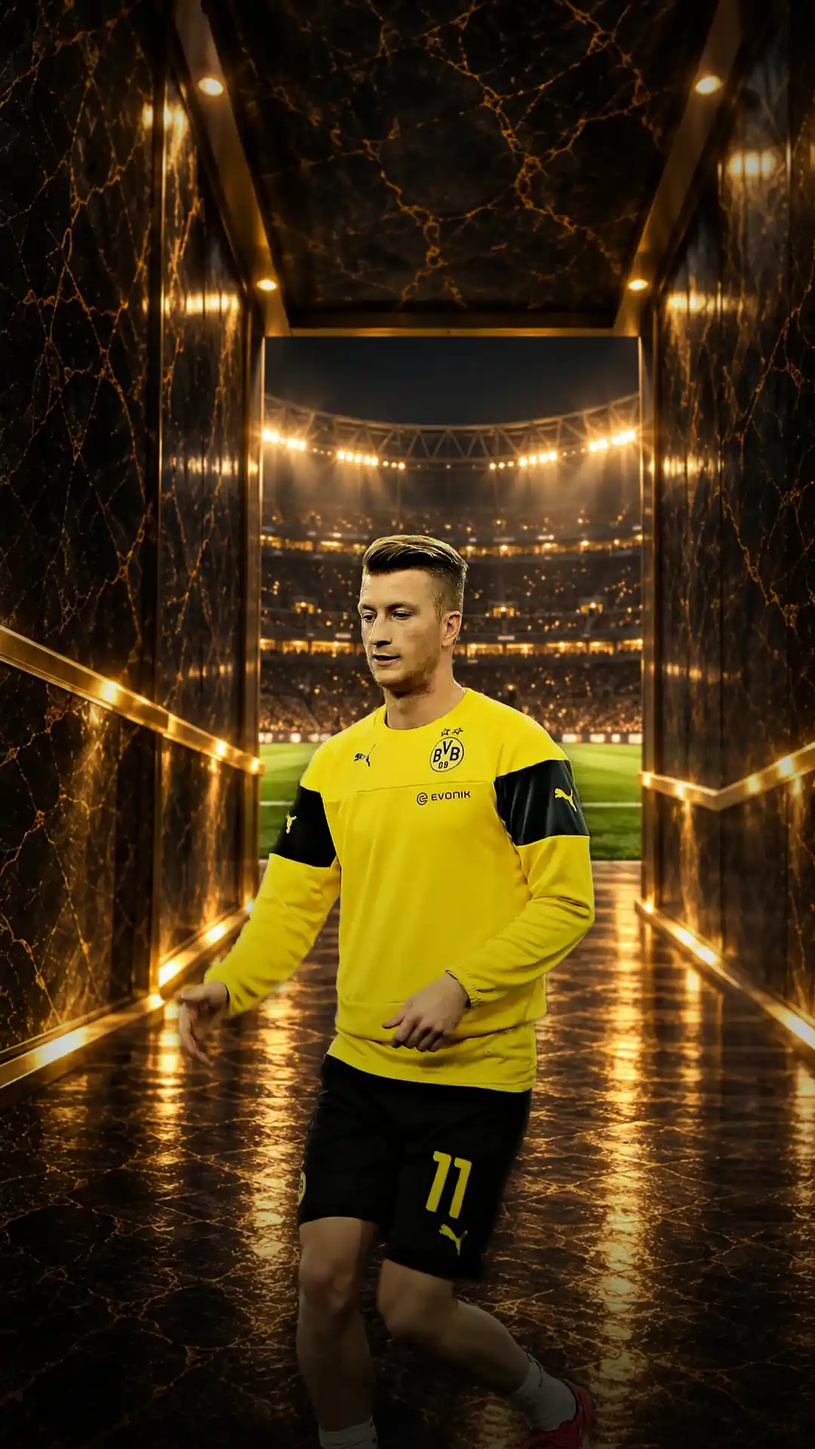
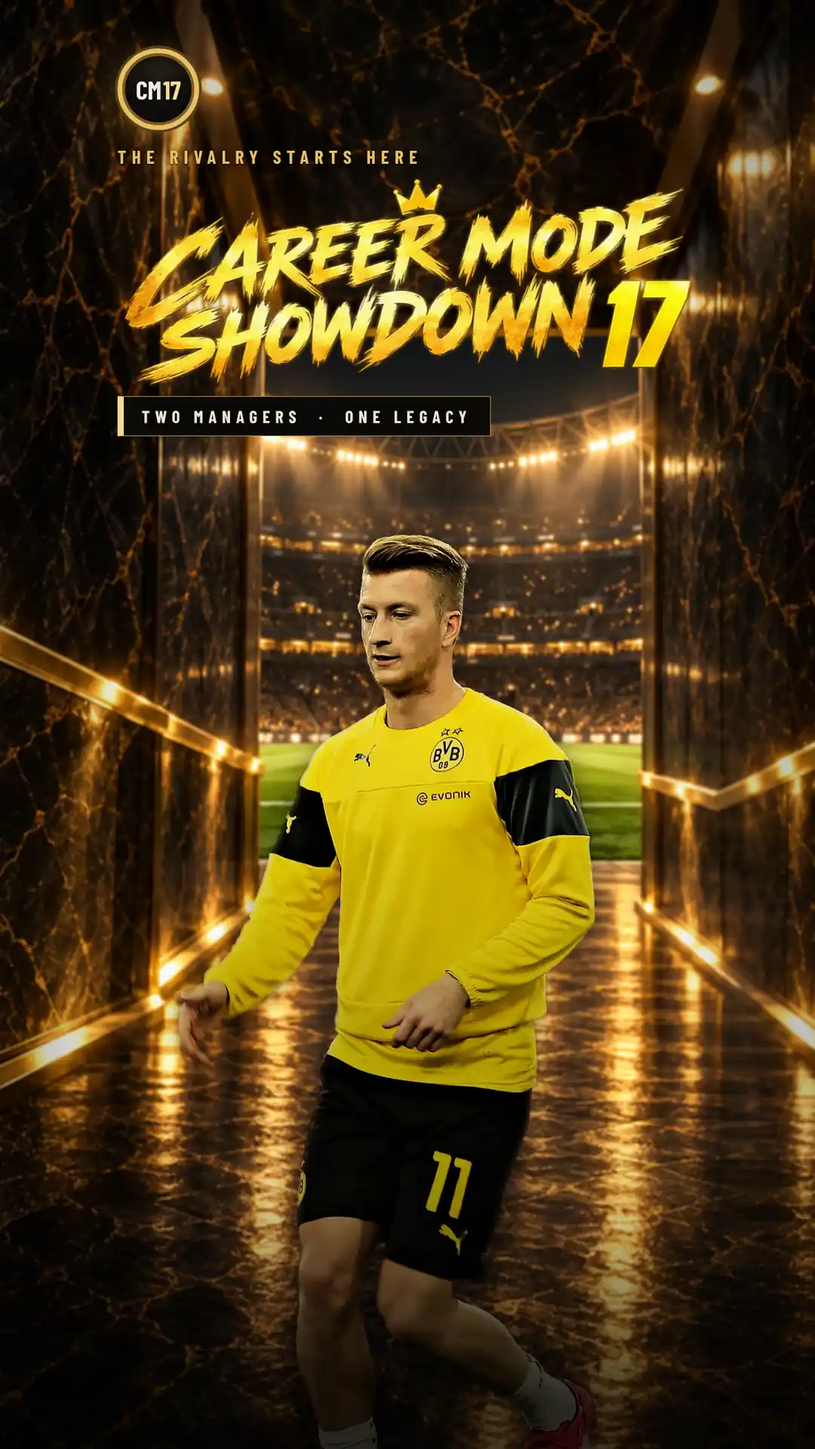
r78 HO-030 v3: title baked into both Loading pictures (one paint), pictures under 95,000 B, CSS 1,430 B gzip
Claude-Session: https://claude.ai/code/session_014ZJxmmR5BHBU6KFwo3Mvsk

diff --git a/project-documents/factory/r78/HO-030/loading-r78.min.css b/project-documents/factory/r78/HO-030/loading-r78.min.css
@@ -1,1 +1,1 @@
-@font-face{font-family:Startup;src:url(../visual-assets/v10_1/shared/fonts/barlow-condensed-latin-700-normal.woff2) format("woff2");font-weight:700;font-display:block}#loadingScreen{--k:max(100cqw/1920,100cqh/1080);--s:100cqh/1080;--fx:.25;--col:calc(var(--k)*1170 - (var(--k)*1920 - 100cqw)*var(--fx));--g:#e8c065;--h:#f6dc94;--i:#f1e9d6;position:fixed;inset:0;z-index:100;overflow:hidden;container-type:size;color:var(--i);font:700 14px/1.2 Startup,"Arial Narrow",Arial,sans-serif;white-space:nowrap;background:#0a0806;text-shadow:0 1px 2px #000,0 0 14px #000c;transition:opacity .24s}#loadingScreen.is-exiting{opacity:0;pointer-events:none}.startupScene,.startupAthleteFrame,#startupAthlete{position:absolute;inset:0}.startupAthleteFrame{background:linear-gradient(104deg,#18120b 48%,#0b0907 58%)}#startupAthlete{width:100%;height:100%;max-width:none;object-fit:cover;object-position:calc(var(--fx)*100%) 0}.startupIdentity,.startupStatus,.startupSaveNote,.startupPhotoCredit{position:absolute;z-index:5;left:var(--col)}.startupIdentity{top:calc(var(--s)*196);width:min(var(--s)*660,100cqw - var(--col) - 3cqw);display:grid;grid-template-columns:auto 1fr;grid-template-areas:"r r" "k k" "t t" "e e";justify-items:start;align-items:center;column-gap:12px}.startupRoundel{grid-area:r;box-sizing:border-box;width:max(40px,var(--s)*96);aspect-ratio:1;display:flex;align-items:center;justify-content:center;gap:.06em;border-radius:50%;border:max(2px,var(--s)*4) solid var(--g);background:#15120d;color:#f3efe6;font-size:max(14px,var(--s)*30);line-height:1}.startupRoundel strong{color:var(--h);font-weight:700}.startupKicker{grid-area:k;margin:calc(var(--s)*26) 0 0;color:var(--g);font-size:max(10px,var(--s)*21);letter-spacing:.34em}.startupIdentity h1{grid-area:t;position:relative;width:100%;margin:calc(var(--s)*10) 0 0;aspect-ratio:1040/378;font-size:0;background:url(../visual-assets/v10_1/home/assets/LOGO_CM17_WORDMARK_V1.webp) left/contain no-repeat}.startupEdition{grid-area:e;margin:calc(var(--s)*16) 0 0;padding:max(5px,var(--s)*11) max(10px,var(--s)*24);border:1px solid #b48a3a;border-left:max(3px,var(--s)*5) solid var(--h);background:#0b0a08;font-size:max(10px,var(--s)*21);letter-spacing:.3em}.startupStatus{bottom:calc(var(--s)*150);display:grid;grid-template-columns:auto 1fr;gap:max(6px,var(--s)*10) max(10px,var(--s)*18);align-items:center}.startupPulse{grid-row:span 2;height:max(18px,var(--s)*30);display:flex;align-items:flex-end;gap:max(2px,var(--s)*4);transform:skewX(-18deg)}.startupPulse i{width:max(3px,var(--s)*6);height:35%;background:var(--g)}.startupPulse i+i{height:60%}.startupPulse i+i+i{height:100%}.startupPulse i+i+i+i{height:72%}#loadingText,.startupSaveNote,.startupPhotoCredit{margin:0}#loadingText{font-size:max(11px,var(--s)*22);letter-spacing:.16em}.startupLoader{grid-column:2;position:relative;width:100%;max-width:26em;height:2px;overflow:hidden;background:#e8c06538}.startupLoader i{position:absolute;inset:0;width:38%;background:linear-gradient(90deg,#e8c06500,var(--h) 55%,var(--g));transform:translateX(-100%);animation:startupSweep 1.8s cubic-bezier(.45,0,.55,1) infinite}@keyframes startupSweep{to{transform:translateX(265%)}}.startupSaveNote{bottom:calc(var(--s)*104);color:var(--g);font-size:max(9px,var(--s)*16);line-height:1.3;letter-spacing:.3em}.startupPhotoCredit{left:auto;right:max(10px,1.4cqw);bottom:max(6px,1.3cqh);color:#e9e1cf;font:400 max(9px,var(--s)*14)/1.35 Arial,sans-serif;letter-spacing:.02em;text-shadow:0 1px 2px #000}.startupPhotoCredit a{color:inherit;text-decoration:none}@media (max-height:500px) and (min-aspect-ratio:3/2){.startupIdentity{top:max(12px,var(--s)*120);grid-template-areas:"r k" "t t" "e e"}.startupKicker{margin:0}.startupStatus{bottom:max(40px,var(--s)*150)}.startupSaveNote{bottom:max(22px,var(--s)*96)}}@media (min-aspect-ratio:1201/1000) and (max-aspect-ratio:3/2){#loadingScreen{--fx:.55}.startupKicker{letter-spacing:.24em}.startupEdition{letter-spacing:.18em;padding-inline:max(8px,var(--s)*16)}#loadingText{font-size:max(11px,var(--s)*19);letter-spacing:.1em}.startupSaveNote{letter-spacing:.2em}}@media (max-aspect-ratio:6/5){#loadingScreen{--k:min(100cqw/1179,100cqh/2096);--s:var(--k)*1.3;--col:calc((100cqw - var(--k)*1179)/2 + var(--k)*77)}.startupAthleteFrame{background:#120e09}#startupAthlete{object-fit:contain;object-position:50% 0}.startupIdentity,.startupStatus,.startupSaveNote,.startupPhotoCredit{right:var(--col)}.startupIdentity{top:calc(var(--k)*70);width:auto}.startupKicker{margin-top:calc(var(--k)*22);letter-spacing:.3em}.startupIdentity h1{width:min(100%,var(--k)*900)}.startupEdition{margin-top:calc(var(--k)*14);font-size:max(10px,var(--k)*25);padding:max(5px,var(--k)*13) max(10px,var(--k)*26)}.startupStatus{bottom:max(70px,var(--k)*205)}#loadingText{letter-spacing:.12em;white-space:normal}.startupSaveNote{bottom:max(44px,var(--k)*130)}.startupPhotoCredit{left:var(--col);bottom:max(12px,var(--k)*44);white-space:normal}}@media (max-aspect-ratio:31/50){#loadingScreen{--k:max(100cqw/1179,100cqh/2096);--col:max(16px,6.5cqw)}#startupAthlete{object-fit:cover}}html[data-motion-reduced=true] .startupLoader i{animation:none!important;width:100%;transform:none}@media (prefers-reduced-motion:reduce){#loadingScreen .startupLoader i{animation:none!important;width:100%;transform:none}#loadingScreen{transition:none}}
+@font-face{font-family:Startup;src:url(../visual-assets/v10_1/shared/fonts/barlow-condensed-latin-700-normal.woff2) format("woff2");font-weight:700;font-display:block}#loadingScreen{--k:max(100cqw/1920,100cqh/1080);--s:100cqh/1080;--ox:max(0px,var(--k)*1860 - 100cqw);--col:calc(var(--k)*1170 - var(--ox));--g:#e8c065;--h:#f6dc94;--i:#f1e9d6;position:fixed;inset:0;z-index:100;overflow:hidden;container-type:size;color:var(--i);font:700 14px/1.2 Startup,"Arial Narrow",Arial,sans-serif;white-space:nowrap;background:#0a0806;text-shadow:0 1px 2px #000,0 0 14px #000c;transition:opacity .24s}#loadingScreen.is-exiting{opacity:0;pointer-events:none}.startupScene,.startupAthleteFrame,#startupAthlete{position:absolute;inset:0}.startupAthleteFrame{background:linear-gradient(104deg,#18120b 48%,#0b0907 58%)}#startupAthlete{width:100%;height:100%;max-width:none;object-fit:cover;object-position:calc(0px - var(--ox)) 0}.startupIdentity{display:none}.startupStatus,.startupSaveNote,.startupPhotoCredit{position:absolute;z-index:5;left:var(--col)}.startupStatus{bottom:calc(var(--s)*150);display:grid;grid-template-columns:auto 1fr;gap:max(6px,var(--s)*10) max(10px,var(--s)*18);align-items:center}.startupPulse{grid-row:span 2;height:max(18px,var(--s)*30);display:flex;align-items:flex-end;gap:max(2px,var(--s)*4);transform:skewX(-18deg)}.startupPulse i{width:max(3px,var(--s)*6);height:35%;background:var(--g)}.startupPulse i+i{height:60%}.startupPulse i+i+i{height:100%}.startupPulse i+i+i+i{height:72%}#loadingText,.startupSaveNote,.startupPhotoCredit{margin:0}#loadingText{font-size:max(11px,var(--s)*22);letter-spacing:.16em}.startupLoader{grid-column:2;position:relative;width:100%;max-width:26em;height:2px;overflow:hidden;background:#e8c06538}.startupLoader i{position:absolute;inset:0;width:38%;background:linear-gradient(90deg,#e8c06500,var(--h) 55%,var(--g));transform:translateX(-100%);animation:startupSweep 1.8s cubic-bezier(.45,0,.55,1) infinite}@keyframes startupSweep{to{transform:translateX(265%)}}.startupSaveNote{bottom:calc(var(--s)*104);color:var(--g);font-size:max(9px,var(--s)*16);line-height:1.3;letter-spacing:.3em}.startupPhotoCredit{left:auto;right:max(10px,1.4cqw);bottom:max(6px,1.3cqh);color:#e9e1cf;font:400 max(9px,var(--s)*14)/1.35 Arial,sans-serif;letter-spacing:.02em;text-shadow:0 1px 2px #000}.startupPhotoCredit a{color:inherit;text-decoration:none}@media (max-height:500px) and (min-aspect-ratio:3/2){.startupStatus{bottom:max(40px,var(--s)*150)}.startupSaveNote{bottom:max(22px,var(--s)*96)}}@media (min-aspect-ratio:7/5) and (max-aspect-ratio:3/2){#loadingText{font-size:max(11px,var(--s)*19);letter-spacing:.1em}.startupSaveNote{letter-spacing:.2em}}@media (max-aspect-ratio:7/5){#loadingScreen{--k:min(100cqw/1179,100cqh/2096);--s:var(--k)*1.3;--col:calc((100cqw - var(--k)*1179)/2 + var(--k)*170)}.startupAthleteFrame{background:#120e09}#startupAthlete{object-fit:contain;object-position:50% 0}.startupStatus,.startupSaveNote,.startupPhotoCredit{right:var(--col)}.startupStatus{bottom:max(70px,var(--k)*205)}#loadingText{letter-spacing:.12em;white-space:normal}.startupSaveNote{bottom:max(44px,var(--k)*130)}.startupPhotoCredit{left:var(--col);bottom:max(12px,var(--k)*44);white-space:normal}}@media (max-aspect-ratio:31/50){#loadingScreen{--k:max(100cqw/1179,100cqh/2096);--col:max(16px,6.5cqw)}#startupAthlete{object-fit:cover}}html[data-motion-reduced=true] .startupLoader i{animation:none!important;width:100%;transform:none}@media (prefers-reduced-motion:reduce){#loadingScreen .startupLoader i{animation:none!important;width:100%;transform:none}#loadingScreen{transition:none}}

diff --git a/project-documents/factory/r78/HO-030/loading-r78.css b/project-documents/factory/r78/HO-030/loading-r78.css
@@ -5,20 +5,23 @@
    Slim v2 (Team G ask, startup gzip budget): the old block is REPLACED, so no rules cancel old ones any more;
    one font stack on #loadingScreen (children set size and spacing only); fewer shadows and gradients;
    the credit uses the system sans (no second font file); portrait sizes come from --s = 1.3 picture px
-   (the same look within a few percent), so only positions and the edition box are re-set there.
-   Layout is locked to the picture: --k is one picture pixel on screen (object-fit), so the title and the
-   loader keep their place against his face and the BVB crest at every size (they never cover either).
-   --s sizes things vertically in landscape. --g gold, --h bright gold, --i ivory text. */
+   (the same look within a few percent), so only positions are re-set there.
+   Title v3 (Team G r78, Reus Gate: the wordmark may not be preloaded): the whole title block (CM17 roundel,
+   kicker, wordmark, edition box) is BAKED INTO BOTH PICTURES, so the screen is one picture and one paint.
+   Layout is locked to the picture: --k is one picture pixel on screen (object-fit). Landscape crops from the left
+   just enough to keep picture x 0..1860 in view (the baked title ends at x1830); windows narrower than 7:5 use
+   the portrait picture. The loader and credit stay HTML. --s sizes them vertically in landscape.
+   --g gold, --h bright gold, --i ivory text. */
 
 @font-face{font-family:Startup;src:url(../visual-assets/v10_1/shared/fonts/barlow-condensed-latin-700-normal.woff2) format("woff2");font-weight:700;font-display:block;}
 
 #loadingScreen{
-  /* Landscape: 1920x1080 picture, cover, crop kept at the top; --ox/--col place the title column on the
-     marble slab right of the gold seam. */
+  /* Landscape: 1920x1080 picture, cover, top kept; --ox = screen px cropped off the left (0 when the window
+     shows x0..1860), --col = the loader column on the marble slab right of the gold seam (picture x1170). */
   --k:max(100cqw/1920,100cqh/1080);
   --s:100cqh/1080;
-  --fx:.25;
-  --col:calc(var(--k)*1170 - (var(--k)*1920 - 100cqw)*var(--fx));
+  --ox:max(0px,var(--k)*1860 - 100cqw);
+  --col:calc(var(--k)*1170 - var(--ox));
   --g:#e8c065;--h:#f6dc94;--i:#f1e9d6;
   position:fixed;inset:0;z-index:100;overflow:hidden;container-type:size;
   color:var(--i);font:700 14px/1.2 Startup,"Arial Narrow",Arial,sans-serif;white-space:nowrap;
@@ -31,24 +34,13 @@
 /* Until the photo decodes, the frame shows the picture's own dark tones (tunnel side warm, slab side black),
    so the photo arriving a frame late never flashes bright. */
 .startupAthleteFrame{background:linear-gradient(104deg,#18120b 48%,#0b0907 58%);}
-#startupAthlete{width:100%;height:100%;max-width:none;object-fit:cover;object-position:calc(var(--fx)*100%) 0;}
+#startupAthlete{width:100%;height:100%;max-width:none;object-fit:cover;object-position:calc(0px - var(--ox)) 0;}
 
-/* Title block */
-.startupIdentity,.startupStatus,.startupSaveNote,.startupPhotoCredit{position:absolute;z-index:5;left:var(--col);}
-.startupIdentity{top:calc(var(--s)*196);width:min(var(--s)*660,100cqw - var(--col) - 3cqw);
-  display:grid;grid-template-columns:auto 1fr;grid-template-areas:"r r" "k k" "t t" "e e";justify-items:start;align-items:center;column-gap:12px;}
-.startupRoundel{grid-area:r;box-sizing:border-box;width:max(40px,var(--s)*96);aspect-ratio:1;
-  display:flex;align-items:center;justify-content:center;gap:.06em;border-radius:50%;
-  border:max(2px,var(--s)*4) solid var(--g);background:#15120d;
-  color:#f3efe6;font-size:max(14px,var(--s)*30);line-height:1;}
-.startupRoundel strong{color:var(--h);font-weight:700;}
-.startupKicker{grid-area:k;margin:calc(var(--s)*26) 0 0;color:var(--g);font-size:max(10px,var(--s)*21);letter-spacing:.34em;}
-.startupIdentity h1{grid-area:t;position:relative;width:100%;margin:calc(var(--s)*10) 0 0;aspect-ratio:1040/378;font-size:0;
-  background:url(../visual-assets/v10_1/home/assets/LOGO_CM17_WORDMARK_V1.webp) left/contain no-repeat;}
-.startupEdition{grid-area:e;margin:calc(var(--s)*16) 0 0;padding:max(5px,var(--s)*11) max(10px,var(--s)*24);
-  border:1px solid #b48a3a;border-left:max(3px,var(--s)*5) solid var(--h);background:#0b0a08;font-size:max(10px,var(--s)*21);letter-spacing:.3em;}
+/* Title block: baked into the pictures (kept hidden in case old markup is still there) */
+.startupIdentity{display:none;}
 
 /* Loader: static gold mark, status text, slim gold line (the only moving thing: a smooth sweep, opacity never changes) */
+.startupStatus,.startupSaveNote,.startupPhotoCredit{position:absolute;z-index:5;left:var(--col);}
 .startupStatus{bottom:calc(var(--s)*150);display:grid;grid-template-columns:auto 1fr;gap:max(6px,var(--s)*10) max(10px,var(--s)*18);align-items:center;}
 .startupPulse{grid-row:span 2;height:max(18px,var(--s)*30);display:flex;align-items:flex-end;gap:max(2px,var(--s)*4);transform:skewX(-18deg);}
 .startupPulse i{width:max(3px,var(--s)*6);height:35%;background:var(--g);}
@@ -64,33 +56,25 @@
   color:#e9e1cf;font:400 max(9px,var(--s)*14)/1.35 Arial,sans-serif;letter-spacing:.02em;text-shadow:0 1px 2px #000;}
 .startupPhotoCredit a{color:inherit;text-decoration:none;}
 
-/* Short landscape (sideways phone): roundel beside the kicker */
+/* Short landscape (sideways phone) */
 @media (max-height:500px) and (min-aspect-ratio:3/2){
-  .startupIdentity{top:max(12px,var(--s)*120);grid-template-areas:"r k" "t t" "e e";}
-  .startupKicker{margin:0;}
   .startupStatus{bottom:max(40px,var(--s)*150);}
   .startupSaveNote{bottom:max(22px,var(--s)*96);}
 }
-/* 4:3-ish landscape (iPad, small windows): crop more of the left wall so the slab is wide enough */
-@media (min-aspect-ratio:1201/1000) and (max-aspect-ratio:3/2){
-  #loadingScreen{--fx:.55;}
-  .startupKicker{letter-spacing:.24em;}
-  .startupEdition{letter-spacing:.18em;padding-inline:max(8px,var(--s)*16);}
+/* 7:5 to 3:2 landscape (small windows): tighter loader text so it fits the slab */
+@media (min-aspect-ratio:7/5) and (max-aspect-ratio:3/2){
   #loadingText{font-size:max(11px,var(--s)*19);letter-spacing:.1em;}
   .startupSaveNote{letter-spacing:.2em;}
 }
 
-/* Portrait and square: 1179x2096 picture. Tablets and square-ish screens (31:50 to 6:5) show it whole, centred
-   on the dark marble colour, so the loader never sits on his shirt; phones (31:50 and taller) fill the screen. */
-@media (max-aspect-ratio:6/5){
-  #loadingScreen{--k:min(100cqw/1179,100cqh/2096);--s:var(--k)*1.3;--col:calc((100cqw - var(--k)*1179)/2 + var(--k)*77);}
+/* Portrait, square and up to 7:5: 1179x2096 picture. Tablets and square-ish screens (31:50 to 7:5) show it whole,
+   centred on the dark marble colour, so the loader never sits on his shirt; phones (31:50 and taller) fill the
+   screen (the baked title sits at x170..1009, inside the crop of the tallest phones). */
+@media (max-aspect-ratio:7/5){
+  #loadingScreen{--k:min(100cqw/1179,100cqh/2096);--s:var(--k)*1.3;--col:calc((100cqw - var(--k)*1179)/2 + var(--k)*170);}
   .startupAthleteFrame{background:#120e09;}
   #startupAthlete{object-fit:contain;object-position:50% 0;}
-  .startupIdentity,.startupStatus,.startupSaveNote,.startupPhotoCredit{right:var(--col);}
-  .startupIdentity{top:calc(var(--k)*70);width:auto;}
-  .startupKicker{margin-top:calc(var(--k)*22);letter-spacing:.3em;}
-  .startupIdentity h1{width:min(100%,var(--k)*900);}
-  .startupEdition{margin-top:calc(var(--k)*14);font-size:max(10px,var(--k)*25);padding:max(5px,var(--k)*13) max(10px,var(--k)*26);}
+  .startupStatus,.startupSaveNote,.startupPhotoCredit{right:var(--col);}
   .startupStatus{bottom:max(70px,var(--k)*205);}
   #loadingText{letter-spacing:.12em;white-space:normal;}
   .startupSaveNote{bottom:max(44px,var(--k)*130);}

diff --git a/project-documents/factory/r78/HO-030/loading-r78.html b/project-documents/factory/r78/HO-030/loading-r78.html
@@ -1,25 +1,20 @@
 <!-- HO-030 (r78) Loading screen markup. Replaces <section id="loadingScreen"> ... </section> in index.html.
      Ids kept: #loadingScreen, #startupAthlete, #loadingText. Classes kept for the existing audits.
-     Images: assets/LOADING_REUS_DESKTOP.webp (1920x1080) and assets/LOADING_REUS_PHONE.webp (1179x2096).
+     Images: assets/LOADING_REUS_DESKTOP.webp (1920x1080) and assets/LOADING_REUS_PHONE.webp (stored 1080x1920, same 9:16
+     crop as the 1179x2096 layout grid). The title block (roundel, kicker, wordmark, edition) is baked into both
+     pictures (v3): no .startupIdentity markup and no wordmark preload.
      Put in <head>, before the stylesheets:
-     <link rel="preload" as="image" href="assets/LOADING_REUS_PHONE.webp?v=REV" media="(max-aspect-ratio: 6/5)" fetchpriority="high">
-     <link rel="preload" as="image" href="assets/LOADING_REUS_DESKTOP.webp?v=REV" media="not all and (max-aspect-ratio: 6/5)" fetchpriority="high">
-     <link rel="preload" as="image" href="visual-assets/v10_1/home/assets/LOGO_CM17_WORDMARK_V1.webp">
+     <link rel="preload" as="image" href="assets/LOADING_REUS_PHONE.webp?v=REV" media="(max-aspect-ratio: 7/5)" fetchpriority="high">
+     <link rel="preload" as="image" href="assets/LOADING_REUS_DESKTOP.webp?v=REV" media="not all and (max-aspect-ratio: 7/5)" fetchpriority="high">
 -->
 <section id="loadingScreen" role="status" aria-live="polite" aria-busy="true" aria-label="Career Mode Showdown is starting">
 <div class="startupScene" aria-hidden="true">
 <div class="startupAthleteFrame">
 <picture>
-<source media="(max-aspect-ratio: 6/5)" srcset="assets/LOADING_REUS_PHONE.webp?v=REV" width="1179" height="2096">
+<source media="(max-aspect-ratio: 7/5)" srcset="assets/LOADING_REUS_PHONE.webp?v=REV" width="1179" height="2096">
 <img id="startupAthlete" src="assets/LOADING_REUS_DESKTOP.webp?v=REV" width="1920" height="1080" alt="" decoding="async" fetchpriority="high">
 </picture>
 </div>
-</div>
-<div class="startupIdentity" aria-hidden="true">
-<div class="startupRoundel"><span>CM</span><strong>17</strong></div>
-<p class="startupKicker">THE RIVALRY STARTS HERE</p>
-<h1><span>CAREER MODE</span><strong>SHOWDOWN <em>17</em></strong></h1>
-<p class="startupEdition">TWO MANAGERS&nbsp;&nbsp;·&nbsp;&nbsp;ONE LEGACY</p>
 </div>
 <div class="startupStatus">
 <div class="startupPulse" aria-hidden="true"><i></i><i></i><i></i><i></i></div>

diff --git a/project-documents/factory/r78/HO-030/preview.html b/project-documents/factory/r78/HO-030/preview.html
@@ -6,13 +6,12 @@
 <title>Loading r78 preview</title>
 <!-- Preview of HO-030. Open from the repo on branch factory/v1-wtt5ye (python3 -m http.server at the repo root, then
      /project-documents/factory/r78/HO-030/preview.html). ?motion=reduce shows the reduced-motion loader. -->
-<link rel="preload" as="image" href="LOADING_REUS_PHONE.webp" media="(max-aspect-ratio: 6/5)" fetchpriority="high">
-<link rel="preload" as="image" href="LOADING_REUS_DESKTOP.webp" media="not all and (max-aspect-ratio: 6/5)" fetchpriority="high">
+<link rel="preload" as="image" href="LOADING_REUS_PHONE.webp" media="(max-aspect-ratio: 7/5)" fetchpriority="high">
+<link rel="preload" as="image" href="LOADING_REUS_DESKTOP.webp" media="not all and (max-aspect-ratio: 7/5)" fetchpriority="high">
 <link rel="stylesheet" href="loading-r78.css">
 <style>
 /* preview only: the same files at their place on this branch (loading-r78.css is written for css/ on main) */
 @font-face{font-family:Startup;src:url(../../../../visual-assets/v10_1/shared/fonts/barlow-condensed-latin-700-normal.woff2) format("woff2");font-weight:700;font-display:block;}
-#loadingScreen .startupIdentity h1{background-image:url(../../../../visual-assets/v10_1/home/assets/LOGO_CM17_WORDMARK_V1.webp);}
 html,body{margin:0;background:#0a0806;}
 </style>
 <script>if(/motion=reduce/.test(location.search))document.documentElement.dataset.motionReduced="true";</script>
@@ -22,16 +21,10 @@ html,body{margin:0;background:#0a0806;}
 <div class="startupScene" aria-hidden="true">
 <div class="startupAthleteFrame">
 <picture>
-<source media="(max-aspect-ratio: 6/5)" srcset="LOADING_REUS_PHONE.webp" width="1179" height="2096">
+<source media="(max-aspect-ratio: 7/5)" srcset="LOADING_REUS_PHONE.webp" width="1179" height="2096">
 <img id="startupAthlete" src="LOADING_REUS_DESKTOP.webp" width="1920" height="1080" alt="" decoding="async" fetchpriority="high">
 </picture>
 </div>
-</div>
-<div class="startupIdentity" aria-hidden="true">
-<div class="startupRoundel"><span>CM</span><strong>17</strong></div>
-<p class="startupKicker">THE RIVALRY STARTS HERE</p>
-<h1><span>CAREER MODE</span><strong>SHOWDOWN <em>17</em></strong></h1>
-<p class="startupEdition">TWO MANAGERS&nbsp;&nbsp;·&nbsp;&nbsp;ONE LEGACY</p>
 </div>
 <div class="startupStatus">
 <div class="startupPulse" aria-hidden="true"><i></i><i></i><i></i><i></i></div>

diff --git a/project-documents/factory/r78/HO-030/make_loading.py b/project-documents/factory/r78/HO-030/make_loading.py
@@ -25,6 +25,8 @@ ALPHA = HERE / "source" / "reus_alpha.png"
 TUNNEL = REPO / "visual-assets" / "v10_1" / "plates-v2" / "ENV_LOADING_PHONE_V2.webp"
 OUT_DESKTOP = HERE / "LOADING_REUS_DESKTOP.webp"
 OUT_PHONE = HERE / "LOADING_REUS_PHONE.webp"
+IDENTITY_DESKTOP = HERE / "source" / "identity_desktop.png"
+IDENTITY_PHONE = HERE / "source" / "identity_phone.png"
 
 GOLD = np.array([0.80, 0.57, 0.21], np.float32)
 GOLD_HI = np.array([1.0, 0.86, 0.52], np.float32)
@@ -209,7 +211,7 @@ PHONE_FACE = (600, 775)      # where the top of his hair lands (x = head centre)
 
 def build_phone(rgb, a):
     tunnel = np.asarray(Image.open(TUNNEL).convert("RGB")).astype(np.float32) / 255
-    tunnel = 0.5 * tunnel + 0.5 * box_blur(tunnel, 1)
+    tunnel = box_blur(tunnel, 2)  # soft background (depth of field) so the picture fits the 95,000 B cap with a sharp face
     H, W = tunnel.shape[:2]
     y = np.arange(H, dtype=np.float32)[:, None, None]
     # Title zone at the top and loader zone at the bottom sink a little deeper into black marble (baked vignette).
@@ -243,6 +245,7 @@ def build_desktop(rgb, a):
     s = (DIV_TOP + 40) / tunnel.width
     tw, th = round(tunnel.width * s), round(tunnel.height * s)
     t = np.asarray(tunnel.resize((tw, th), Image.LANCZOS)).astype(np.float32) / 255
+    t = box_blur(t, 1)  # soft background (depth of field): room for the baked title under the 95,000 B cap
     oy = 300
     left = np.zeros((H, W, 3), np.float32)
     left[:, :tw] = t[oy:oy + H, :tw]
@@ -286,6 +289,14 @@ def build_desktop(rgb, a):
     return out * (1 - vb)
 
 
+def bake(arr, overlay_path):
+    """Alpha-composite a same-size RGBA overlay (the rendered title block) onto the picture."""
+    o = np.asarray(Image.open(overlay_path).convert("RGBA")).astype(np.float32) / 255
+    assert o.shape[:2] == arr.shape[:2], (o.shape, arr.shape)
+    al = o[..., 3:4]
+    return arr * (1 - al) + o[..., :3] * al
+
+
 def save(arr, path, budget_kb):
     """Highest WebP quality (30..85) that fits the release cap (95,000 B)."""
     import io
@@ -319,6 +330,12 @@ def main():
     rgb = grade(rgb, a)
     desk = build_desktop(rgb, a)
     phone = build_phone(rgb, a)
+    # The title block (CM17 roundel, kicker, wordmark, edition box) is baked in, so the screen is one picture and
+    # one paint (Team G r78: the wordmark may not be preloaded). Overlays are the v1 HTML block rendered at
+    # picture size with a transparent background by bake_identity.cjs: desktop at x1170 y196 (660 wide),
+    # phone at x170 y70 (839 wide, inside the crop of the tallest phones).
+    desk = bake(desk, IDENTITY_DESKTOP)
+    phone = bake(phone, IDENTITY_PHONE)
     save(desk, OUT_DESKTOP, 92)
     # Release cap 95,000 B: the phone picture is stored at 1080x1920 (same 9:16 crop as 1179x2096, so every
     # CSS anchor, which works in 1179x2096 picture px through object-fit, is unchanged) at a higher quality.

diff --git a/project-documents/factory/r78/HO-030/README.md b/project-documents/factory/r78/HO-030/README.md
@@ -93,3 +93,12 @@ desktop, bottom left on phone.
 - [x] No layout shift: the picture box is fixed to the screen (`position:absolute; inset:0`, `object-fit`), its size never depends on the file. Title, loader and credit are text and CSS, so the screen is complete on first paint; until the photo decodes the frame shows the picture's own dark tones (warm tunnel left, black slab right), so a late photo never flashes bright. Preload plus about 92 KB keeps that gap short.
 - [x] No flashing animation: the only motion is the slim gold line sweeping (transform only, opacity never changes). The four gold bars are static. Off with `prefers-reduced-motion` and with the app's reduced-motion setting (line shows full).
 - [x] Sizes: desktop 92,734 B, phone 93,162 B, both under the 95,000 B release cap, and each device loads only one. Face and BVB crest checked at 1:1 after re-export (17 Oct).
+
+## v3 (17 Oct, Team G r78 asks): title baked in, pictures under 95,000 B
+
+- The whole title block (CM17 roundel, THE RIVALRY STARTS HERE, the CAREER MODE SHOWDOWN 17 wordmark, the TWO MANAGERS · ONE LEGACY box) is now part of both pictures, so Loading is one picture and one paint (the career-screens V9 guard forbids preloading the wordmark, which made the title pop in late on a slow load). The `.startupIdentity` markup and the wordmark preload are gone; CSS keeps `.startupIdentity{display:none}` in case old markup is still there.
+- Overlays `source/identity_desktop.png` (block at x1170 y196, 660 wide) and `source/identity_phone.png` (x170 y70, 839 wide, inside the crop of the tallest phones) are the v1 HTML block rendered at picture size with a transparent background by `bake_identity.cjs`; `make_loading.py` composites them before encoding.
+- Crops: landscape crops from the left only as much as needed to keep picture x0..1860 in view (`--ox`), so the baked title is never cut; windows narrower than 7:5 (was 6:5) use the portrait picture. The `<source>` and preload media queries changed to `(max-aspect-ratio: 7/5)`.
+- Sizes: desktop 93,674 B (q52), phone 93,792 B (q40, stored 1080x1920). The tunnel backgrounds are softened slightly (depth of field) so the face, crest and title stay sharp under the cap.
+- CSS: `loading-r78.min.css` 3,623 B, 1,430 B gzip (was 1,883).
+- Shots: `shots/AFTER_V3_*.webp` (1440x900, 1366x768, 1500x1000, 852x393, 393x852, 360x640, 768x1024). On 360x640 the baked kicker is small (about 8 px), as decoration.
